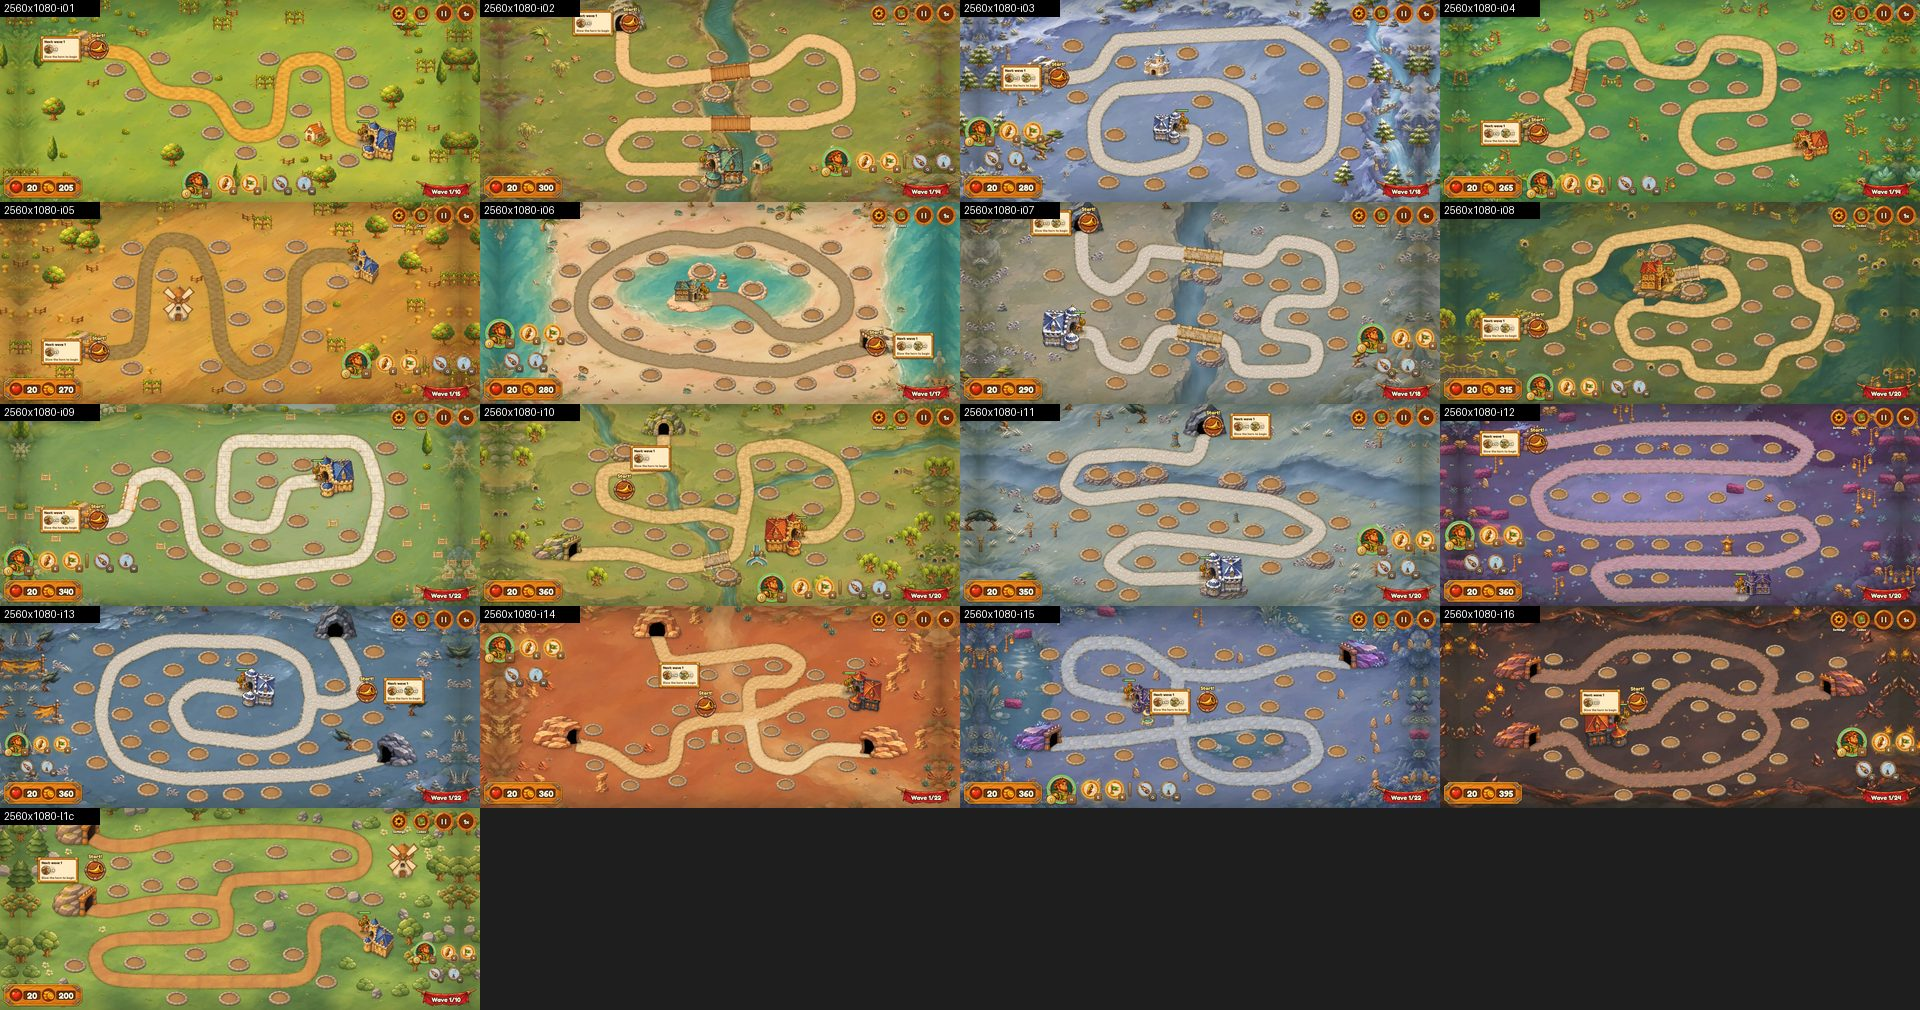
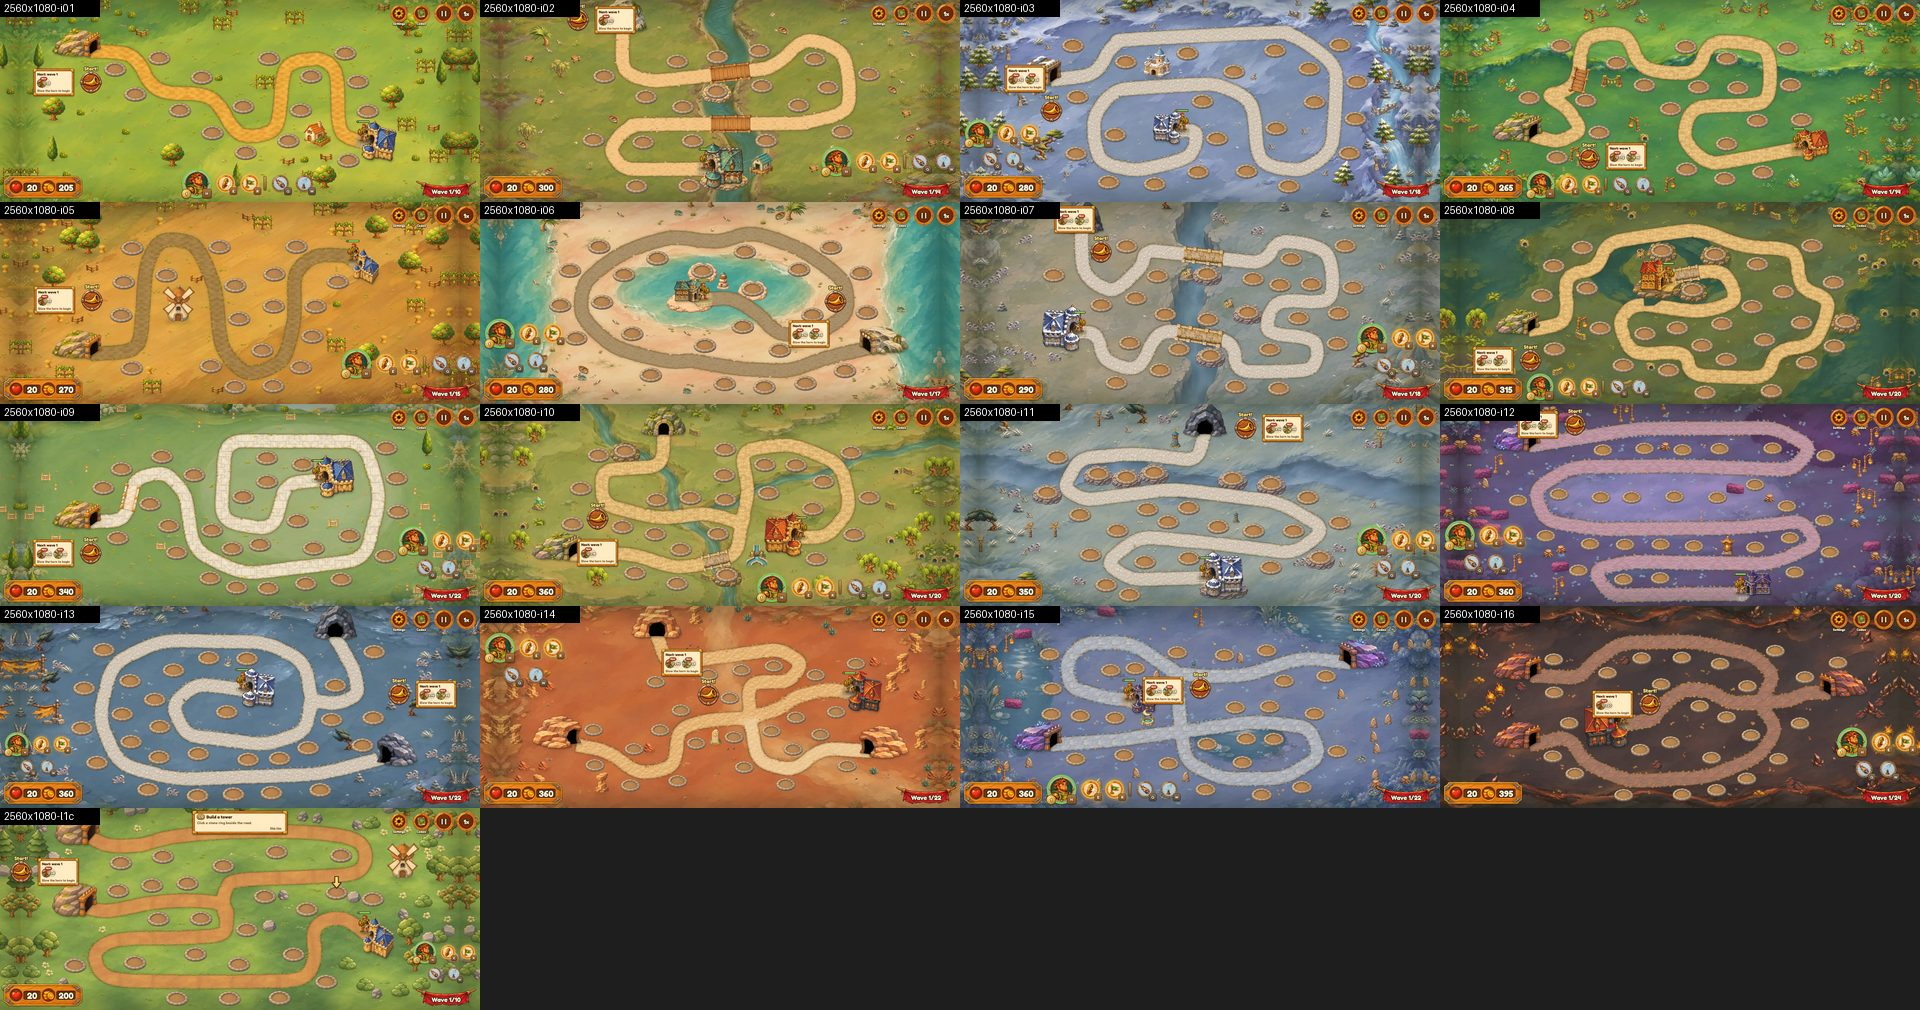
wip(2d): ability bar side stack for short screens, HUD overlap weighs 10x; foe tips drop 3D-only key hints

diff --git a/src/render2d/ui/abilityBar2d.ts b/src/render2d/ui/abilityBar2d.ts
@@ -184,6 +184,7 @@ export function mountAbilityBar2D(game: Game2D, opts: AbilityBarOptions): Abilit
   let visible = true;
   let box: Rect = { x: 0, y: 0, w: 0, h: 0 };
   let spot: AbilityBarSpot | null = null;
+  let edge = false;
   let placing = false;
   let d = 60;
   /** Road points (world units) the bar would rather not cover, sampled once. */
@@ -212,7 +213,7 @@ export function mountAbilityBar2D(game: Game2D, opts: AbilityBarOptions): Abilit
     // Plots with room for the tower that may stand on them (≈ 1.3 plot widths tall).
     const hard: Rect[] = game.plots.geometry.rects.map((p) => ({ x: sx(p.x), y: sy(p.y - p.w * 1.3), w: p.w * m.fit.scale, h: (p.h + p.w * 1.3) * m.fit.scale }));
     placing = true;
-    hard.push(r.horn, r.plaque, r.banner, hudButtonsKeepOut(w, h, ins), ...hudKeepOuts());
+    const hud: Rect[] = [r.horn, r.plaque, r.banner, hudButtonsKeepOut(w, h, ins), ...hudKeepOuts()];
     // The castle keep and the caves (painted into the map): rather not under the bar (the keep
     // weighs more; a cave edge is fine when nothing else is clear).
     const landmarks = gateKeepOutsPx(game.level.layout2d?.gates ?? []).map((g) => ({ rect: { x: sx(g.x), y: sy(g.y), w: g.w * m.fit.scale, h: g.h * m.fit.scale }, weight: g.castle ? 400 : 120 }));
@@ -220,21 +221,25 @@ export function mountAbilityBar2D(game: Game2D, opts: AbilityBarOptions): Abilit
     const soft = roadPts.map((p) => ({ x: sx(m.pxX(p.x)), y: sy(m.pxY(p.z)) }));
     // With the hero group the bar is long: shrink the buttons (never under 46 px) until a spot
     // covers nothing; else keep the size whose best spot covers least.
-    let best: { d: number; long: number; short: number; spot: AbilityBarSpot; block?: { w: number; h: number } } | null = null;
+    let best: { d: number; long: number; short: number; spot: AbilityBarSpot; block?: { w: number; h: number }; stack?: { w: number; h: number } } | null = null;
     for (let dd = base; dd >= Math.min(base, 46); dd -= 2) {
       // + one gap between the hero group and the abilities, + the key chips' overhang.
       const lg = dd * slots.length + gap * (slots.length - 1) + (opts.lead ? opts.lead.long(dd, gap) + gap : 0) + Math.round(dd * 0.12);
       const sh = Math.max(dd, opts.lead?.short ? Math.ceil(opts.lead.short(dd)) : dd);
       // Two rows: the hero group (no divider) over the abilities.
       const block = opts.lead ? { w: Math.round(dd * 3.5 + gap * 2 + dd * 0.12), h: Math.round(dd * 1.5 + gap + dd + dd * 0.08) } : undefined;
-      const sp = abilityBarSpot({ w, h, insets: ins, pad, long: lg, short: sh, gap, plaque: r.plaque, banner: r.banner, hard, soft, landmarks, ...(block ? { block } : {}) });
+      // Three rows up a side (portrait / hero skills / abilities): fits a short phone screen's edge
+      // between the HUD buttons and the banner, where the one-file column does not.
+      const stack = opts.lead ? { w: Math.round(dd * 2 + gap + dd * 0.12), h: Math.round(dd * 1.5 + dd * 2 + gap * 1.2 + dd * 0.08) } : undefined;
+      const sp = abilityBarSpot({ w, h, insets: ins, pad, long: lg, short: sh, gap, plaque: r.plaque, banner: r.banner, hard, hud, soft, landmarks, ...(block ? { block } : {}), ...(stack ? { stack } : {}) });
       // Prefer: clear spot, then a row / block over an edge column (owner: the column "at the edge"
       // looked off), then the bigger buttons. A column is kept only if no row / block down to 70 %
       // size is clear.
-      const better = (a: AbilityBarSpot, b: AbilityBarSpot): boolean =>
-        a.score !== b.score ? a.score < b.score : (a.layout === 'column' ? 1 : 0) < (b.layout === 'column' ? 1 : 0);
-      if (!best || better(sp, best.spot)) best = { d: dd, long: lg, short: sh, spot: sp, block };
-      if (sp.score === 0 && sp.layout !== 'column') break;
+      // The side stack ranks between them (it is an edge piece too, but compact).
+      const edgeRank = (a: AbilityBarSpot): number => (a.layout === 'column' ? 2 : a.layout === 'stack' ? 1 : 0);
+      const better = (a: AbilityBarSpot, b: AbilityBarSpot): boolean => (a.score !== b.score ? a.score < b.score : edgeRank(a) < edgeRank(b));
+      if (!best || better(sp, best.spot)) best = { d: dd, long: lg, short: sh, spot: sp, block, stack };
+      if (sp.score === 0 && edgeRank(sp) === 0) break;
       if (best.spot.score === 0 && dd < base * 0.7) break;
     }
     d = best!.d;
@@ -243,13 +248,17 @@ export function mountAbilityBar2D(game: Game2D, opts: AbilityBarOptions): Abilit
     spot = best!.spot;
     root.classList.toggle('vertical', spot.layout === 'column');
     root.classList.toggle('block', spot.layout === 'block');
-    const blk = best!.block;
-    if (spot.layout === 'block' && blk) root.style.setProperty('--blockw', `${blk.w}px`);
+    root.classList.toggle('stack', spot.layout === 'stack');
+    // Up a screen side: tooltips / hints / coach arrows go beside it, towards the middle.
+    edge = spot.layout === 'column' || spot.layout === 'stack';
+    root.classList.toggle('edge', edge);
+    const blk = spot.layout === 'stack' ? best!.stack : best!.block;
+    if ((spot.layout === 'block' || spot.layout === 'stack') && blk) root.style.setProperty('--blockw', `${blk.w}px`);
     root.style.setProperty('--d', `${d}px`);
     root.style.setProperty('--gap', `${gap}px`);
     root.style.left = `${Math.round(spot.x)}px`;
     root.style.top = `${Math.round(spot.y)}px`;
-    box = spot.layout === 'block' && blk ? { x: spot.x, y: spot.y, w: blk.w, h: blk.h } : { x: spot.x, y: spot.y, w: spot.vertical ? short : long, h: spot.vertical ? long : short };
+    box = (spot.layout === 'block' || spot.layout === 'stack') && blk ? { x: spot.x, y: spot.y, w: blk.w, h: blk.h } : { x: spot.x, y: spot.y, w: spot.vertical ? short : long, h: spot.vertical ? long : short };
     root.style.setProperty('--short', `${short}px`);
     placeHint();
   };
@@ -260,7 +269,7 @@ export function mountAbilityBar2D(game: Game2D, opts: AbilityBarOptions): Abilit
     const gap = 10;
     let x = box.x + box.w / 2 - hw / 2;
     let y = box.y - gap - hh;
-    if (spot?.vertical) {
+    if (edge) {
       // Beside the column, towards the middle of the screen.
       x = box.x + box.w / 2 < window.innerWidth / 2 ? box.x + box.w + gap : box.x - gap - hw;
       y = box.y + box.h - hh;
@@ -299,7 +308,7 @@ export function mountAbilityBar2D(game: Game2D, opts: AbilityBarOptions): Abilit
     const th = tip.offsetHeight;
     let x = b.left + b.width / 2 - tw / 2;
     let y = b.top - 10 - th;
-    if (spot?.vertical) {
+    if (edge) {
       x = b.left + b.width / 2 < window.innerWidth / 2 ? b.right + 10 : b.left - 10 - tw;
       y = b.bottom - th;
     }

diff --git a/src/render2d/uiLayout.ts b/src/render2d/uiLayout.ts
@@ -434,14 +434,17 @@ export function hudButtonsKeepOut(w: number, h: number, insets: Insets): Rect {
 // Ability bar
 // ---------------------------------------------------------------------------------------------
 
-export type AbilityBarLayout = 'row' | 'column' | 'block';
+export type AbilityBarLayout = 'row' | 'column' | 'block' | 'stack';
 
 export interface AbilityBarSpot {
   readonly x: number;
   readonly y: number;
   /** Column up a screen edge (kept for callers that only know row / column). */
   readonly vertical: boolean;
-  /** Row, column, or the compact two-row block (hero group on top, abilities under it). */
+  /**
+   * Row, column, the compact two-row block (hero group on top, abilities under it), or the narrow
+   * three-row stack up a screen side (portrait / hero skills / abilities; short phone screens).
+   */
   readonly layout: AbilityBarLayout;
   /** 0 = clear of every plot / tower and road; higher = worse (QA). */
   readonly score: number;
@@ -458,11 +461,18 @@ export interface AbilityBarInput {
   readonly gap: number;
   /** The two-row block's size (no block candidates when absent). */
   readonly block?: { readonly w: number; readonly h: number };
+  /** The narrow three-row stack's size (no stack candidates when absent). */
+  readonly stack?: { readonly w: number; readonly h: number };
   /** HUD plaque (bottom-left) and wave banner (bottom-right), screen px. */
   readonly plaque: Rect;
   readonly banner: Rect;
-  /** Never cover: build plots with their towers, the horn, HUD pieces. */
+  /** Never cover: build plots with their towers (1000 per px²). */
   readonly hard: readonly Rect[];
+  /**
+   * Never ever cover: the horn and the HUD pieces (10000 per px²). A bar over the wave banner or a
+   * HUD button looks broken, so it loses to any spot that only grazes plots.
+   */
+  readonly hud?: readonly Rect[];
   /** Rather not cover: points along the roads (enemies walk there). */
   readonly soft: readonly Pt[];
   /** Painted landmarks with a weight per px² (castle heavier than a cave; plots count 1000). */
@@ -473,8 +483,8 @@ export interface AbilityBarInput {
  * Where the ability bar goes on this island. In order of preference: the bottom band between the
  * plaque and the wave banner (centre first, then sliding towards either end), just above the
  * plaque / banner, the compact two-row block above the plaque / banner or in a bottom corner, a
- * column up the left / right edge, a row along the top edge, then blocks / columns at other
- * heights. A spot covering a plot (or its tower), the castle / caves or a HUD piece is only taken
+ * column or the narrow three-row stack up the left / right edge, a row along the top edge, then
+ * blocks / stacks / columns at other heights. A spot covering a plot (or its tower), the castle / caves or a HUD piece is only taken
  * when every spot does; then the least covered wins. Roads count a bit, the preference order and
  * the distance from the bottom centre break ties.
  */
@@ -486,8 +496,8 @@ export function abilityBarSpot(o: AbilityBarInput): AbilityBarSpot {
   const maxY = h - insets.bottom - pad;
   const cands: { x: number; y: number; bw: number; bh: number; layout: AbilityBarLayout; rank: number }[] = [];
   const add = (x: number, y: number, layout: AbilityBarLayout, rank: number): void => {
-    const bw = layout === 'column' ? short : layout === 'block' ? o.block!.w : long;
-    const bh = layout === 'column' ? long : layout === 'block' ? o.block!.h : short;
+    const bw = layout === 'column' ? short : layout === 'block' ? o.block!.w : layout === 'stack' ? o.stack!.w : long;
+    const bh = layout === 'column' ? long : layout === 'block' ? o.block!.h : layout === 'stack' ? o.stack!.h : short;
     cands.push({ x: Math.max(minX, Math.min(maxX - bw, x)), y: Math.max(minY, Math.min(maxY - bh, y)), bw, bh, layout, rank });
   };
   const bottomY = maxY - short;
@@ -514,6 +524,16 @@ export function abilityBarSpot(o: AbilityBarInput): AbilityBarSpot {
   }
   add(minX, o.plaque.y - gap - long, 'column', 4);
   add(maxX - short, o.banner.y - gap - long, 'column', 4);
+  if (o.stack) {
+    // Up a side, above the plaque / banner, else anywhere along the sides (under the HUD buttons).
+    const st = o.stack;
+    add(minX, o.plaque.y - gap - st.h, 'stack', 4);
+    add(maxX - st.w, o.banner.y - gap - st.h, 'stack', 4);
+    for (let i = 0; i <= 6; i++) {
+      add(minX, minY + ((maxY - minY - st.h) * i) / 6, 'stack', 5);
+      add(maxX - st.w, minY + ((maxY - minY - st.h) * i) / 6, 'stack', 5);
+    }
+  }
   // Dense islands (plots along every edge of the bottom band): a row along the top edge (the HUD
   // buttons on the right are keep-outs), blocks and columns at other heights.
   const steps = 10;
@@ -538,6 +558,7 @@ export function abilityBarSpot(o: AbilityBarInput): AbilityBarSpot {
     const box: Rect = { x: c.x, y: c.y, w: c.bw, h: c.bh };
     let hard = 0;
     for (const r of o.hard) hard += overlapArea(box, r);
+    for (const r of o.hud ?? []) hard += overlapArea(box, r) * 10;
     let soft = 0;
     for (const p of o.soft) if (p.x >= box.x && p.x <= box.x + box.w && p.y >= box.y && p.y <= box.y + box.h) soft++;
     let land = 0;

diff --git a/tests/i18n/coverage.test.ts b/tests/i18n/coverage.test.ts
@@ -9,7 +9,7 @@ import { TOWER_DEFS } from '../../src/data/towers.ts';
 import { WORKSHOP_BRANCHES, WORKSHOP_UPGRADES } from '../../src/data/workshop.ts';
 import { FEATS } from '../../src/game/feats.ts';
 import { DATA_TR } from '../../src/i18n/dataTr.ts';
-import { challengeName, islandName, tagName, towerName, upgradeRankText } from '../../src/i18n/data.ts';
+import { challengeName, enemyCounter, islandName, stripKeyHints, tagName, towerName, upgradeRankText } from '../../src/i18n/data.ts';
 import { EN, type Msg } from '../../src/i18n/en.ts';
 import { localeFromTag, lower, setLocale, t, tIn, upper } from '../../src/i18n/index.ts';
 import { TR } from '../../src/i18n/tr.ts';
@@ -188,5 +188,14 @@ describe('no hardcoded English in the 2D UI', () => {
   it('no user-visible English string literals in the files the 2D UI owns', () => {
     const hits = UI_FILES.flatMap(englishLiterals);
     expect(hits).toEqual([]);
+  });
+
+  it('foe tips never name a 3D-only key (both languages)', () => {
+    expect(stripKeyHints('Only Archer can hit it. Press R to see the sky lane.')).toBe('Only Archer can hit it.');
+    expect(stripKeyHints('Yalnızca Okçu vurabilir. Hava yolunu görmek için R tuşuna bas.')).toBe('Yalnızca Okçu vurabilir.');
+    for (const lang of ['en', 'tr'] as const) {
+      setLocale(lang);
+      for (const id of Object.keys(ENEMY_DEFS)) expect(enemyCounter(id), `${lang} ${id}`).not.toMatch(/Press [A-Z0-9] |tuşuna bas/);
+    }
   });
 });

diff --git a/src/render2d/ui/heroHud2d.ts b/src/render2d/ui/heroHud2d.ts
@@ -173,7 +173,7 @@ export function createHeroHud2D(game: Game2D, opts: HeroHudOptions): HeroHud2D |
     const b = anchor.getBoundingClientRect();
     const tw = tip.offsetWidth;
     const th = tip.offsetHeight;
-    const vertical = group.parentElement?.classList.contains('vertical') ?? false;
+    const vertical = group.parentElement?.classList.contains('edge') ?? false;
     let x = b.left + b.width / 2 - tw / 2;
     let y = b.top - 10 - th;
     if (vertical) {
@@ -271,7 +271,7 @@ export function createHeroHud2D(game: Game2D, opts: HeroHudOptions): HeroHud2D |
     const hh = hint.offsetHeight;
     let x = b.left + b.width / 2 - hw / 2;
     let y = b.top - 10 - hh;
-    if (group.parentElement?.classList.contains('vertical')) {
+    if (group.parentElement?.classList.contains('edge')) {
       x = b.left + b.width / 2 < window.innerWidth / 2 ? b.right + 10 : b.left - 10 - hw;
       y = b.top;
     }

diff --git a/src/i18n/data.ts b/src/i18n/data.ts
@@ -116,8 +116,21 @@ export function enemyDesc(id: string): string {
   return enemyTr(id)?.desc || enemyDef(id)?.description || '';
 }
 
+/**
+ * The shared lore was written for the 3D build, where some tips name its keys ("Press R to see the
+ * sky lane"). The 2D build has no such keys (R casts the hero's second skill), so those sentences
+ * are dropped here.
+ */
 export function enemyCounter(id: string): string {
-  return enemyTr(id)?.counter || ENEMY_LORE[id as keyof typeof ENEMY_LORE]?.counter || '';
+  const raw = enemyTr(id)?.counter || ENEMY_LORE[id as keyof typeof ENEMY_LORE]?.counter || '';
+  return stripKeyHints(raw);
+}
+
+export function stripKeyHints(text: string): string {
+  return text
+    .replace(/\s*Press [A-Z0-9] to [^.]*\./g, '')
+    .replace(/\s*[^.]*\b[A-Z0-9] tuşuna bas[^.]*\./g, '')
+    .trim();
 }
 
 /** A codex chip (lore tags are English words, not ids). */

diff --git a/src/render2d/ui/heroHud2d.css b/src/render2d/ui/heroHud2d.css
@@ -37,6 +37,24 @@
   display: none;
 }
 
+.pu-abilities.stack .pu-hero-group {
+  flex-basis: 100%;
+  display: grid;
+  grid-template-columns: repeat(2, var(--d, 60px));
+  justify-content: center;
+  column-gap: var(--gap, 14px);
+  row-gap: calc(var(--gap, 14px) * 0.6);
+}
+
+.pu-abilities.stack .pu-hero-port {
+  grid-column: 1 / -1;
+  justify-self: center;
+}
+
+.pu-abilities.stack .pu-hero-divider {
+  display: none;
+}
+
 .pu-abilities.vertical .pu-hero-divider {
   width: calc(var(--d, 60px) * 0.7);
   height: calc(var(--d, 60px) * 0.12);

diff --git a/src/render2d/main2d.ts b/src/render2d/main2d.ts
@@ -838,7 +838,7 @@ async function main(): Promise<void> {
         if (!e) return null;
         const r = e.getBoundingClientRect();
         if (r.width <= 0) return null;
-        if (e.closest('.vertical')) {
+        if (e.closest('.edge')) {
           const leftEdge = r.left + r.width / 2 < app.screen.width / 2;
           return leftEdge ? { x: r.right, y: r.top + r.height / 2, dir: 'left' } : { x: r.left, y: r.top + r.height / 2, dir: 'right' };
         }

diff --git a/src/i18n/dataTr.ts b/src/i18n/dataTr.ts
@@ -140,7 +140,7 @@ export const DATA_TR: DataTr = {
     flyer: {
       name: 'Gök Süzücüsü',
       desc: 'Arazinin üstünden kendi hava yolunda süzülür. Yalnızca havaya vuran kuleler ona yetişir.',
-      counter: 'Yalnızca Okçu, Ayaz, Tesla ve Balista vurabilir. Hava yolunu görmek için R tuşuna bas.',
+      counter: 'Yalnızca Okçu, Ayaz, Tesla ve Balista vurabilir.',
     },
     healer: {
       name: 'Koru Şifacısı',

diff --git a/src/render2d/ui/abilityBar2d.css b/src/render2d/ui/abilityBar2d.css
@@ -25,6 +25,14 @@
   row-gap: calc(var(--gap, 14px) * 0.6);
 }
 
+/* Three rows up a side (short phone screens): portrait, hero skills, abilities. */
+.pu-abilities.stack {
+  flex-wrap: wrap;
+  justify-content: center;
+  width: var(--blockw, auto);
+  row-gap: calc(var(--gap, 14px) * 0.6);
+}
+
 .pu-abilities[hidden],
 .pu-ab-hint[hidden] {
   display: none !important;
